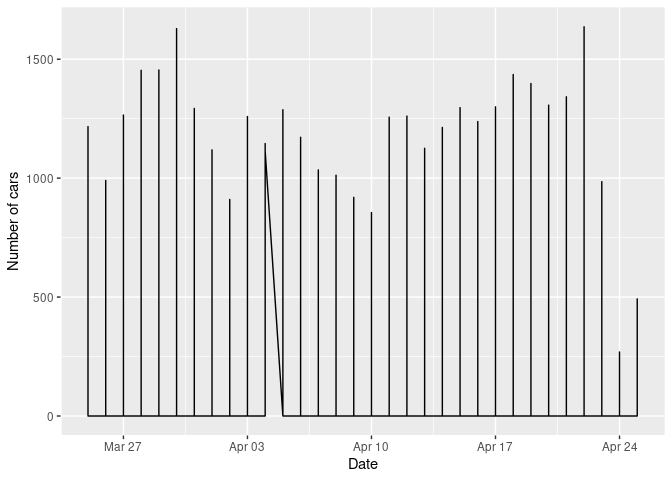
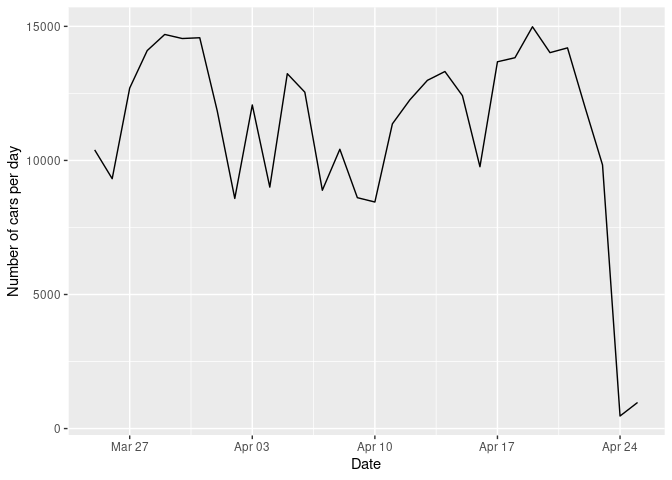
Rename functions: lowercase, update readme

diff --git a/README.md b/README.md
@@ -114,17 +114,17 @@ and direction
 dim(data)
 ```
 
-    ## [1] 720  19
+    ## [1] 720  20
 
 ``` r
 data |>
   str()
 ```
 
-    ## 'data.frame':    720 obs. of  19 variables:
+    ## 'data.frame':    720 obs. of  20 variables:
     ##  $ instance_id   : num  -1 -1 -1 -1 -1 -1 -1 -1 -1 -1 ...
     ##  $ segment_id    : num  9e+09 9e+09 9e+09 9e+09 9e+09 ...
-    ##  $ date          : POSIXct, format: "2023-03-25 07:00:00" "2023-03-25 08:00:00" ...
+    ##  $ date          : Date, format: "2023-03-25" "2023-03-25" ...
     ##  $ interval      : chr  "hourly" "hourly" "hourly" "hourly" ...
     ##  $ uptime        : num  0.762 0.764 0.738 0.655 0.685 ...
     ##  $ heavy         : num  48.3 41.7 80.2 61.6 75.9 ...
@@ -141,6 +141,7 @@ data |>
     ##  $ pedestrian_rgt: num  0 2.55 5.42 1.33 18.73 ...
     ##  $ direction     : num  1 1 1 1 1 1 1 1 1 1 ...
     ##  $ timezone      : chr  "Europe/Brussels" "Europe/Brussels" "Europe/Brussels" "Europe/Brussels" ...
+    ##  $ datetime      : POSIXct, format: "2023-03-25 07:00:00" "2023-03-25 08:00:00" ...
 
 If the `include_speed` is set as `TRUE`. The returned data frame will
 include the binned speed distribution for cars
@@ -169,7 +170,7 @@ data = read_telraam_traffic(9000003890,
 dim(data)
 ```
 
-    ## [1] 720  44
+    ## [1] 720  45
 
 ``` r
 data |>
@@ -178,7 +179,7 @@ data |>
 ```
 
     ## 'data.frame':    720 obs. of  26 variables:
-    ##  $ date                : POSIXct, format: "2023-03-25 07:00:00" "2023-03-25 08:00:00" ...
+    ##  $ date                : Date, format: "2023-03-25" "2023-03-25" ...
     ##  $ car speed  [0,5)    : num  0.926 0.555 2.129 2.478 0.702 ...
     ##  $ car speed  [5,10)   : num  0.451 1.109 0.318 2.102 0.535 ...
     ##  $ car speed  [10,15)  : num  3.787 2.878 1.662 2.287 0.981 ...
@@ -213,23 +214,21 @@ data |>
   summarise(cars = sum(car)) |> 
   ggplot(aes(x = as.Date(date), y=cars)) + 
   geom_line() + 
-  labs(x="Date", y="Number of cars")
+  labs(x="Date", y="Number of cars per day")
 ```
 
 ![](README_files/figure-gfm/cars_per_day-1.png)<!-- -->
 
-```` 
-
 ### Segments Location
 
-To obtain the location of the network links a.k.a. segments, the following function can be used:
+To obtain the location of the network links a.k.a. segments, the
+following function can be used:
 
-
-```r
+``` r
 segments = read_telraam_segments()
 
 segments |> str()
-````
+```
 
     ## Classes 'sf' and 'data.frame':   5750 obs. of  2 variables:
     ##  $ oidn    : num  9e+09 9e+09 9e+09 9e+09 9e+09 ...
